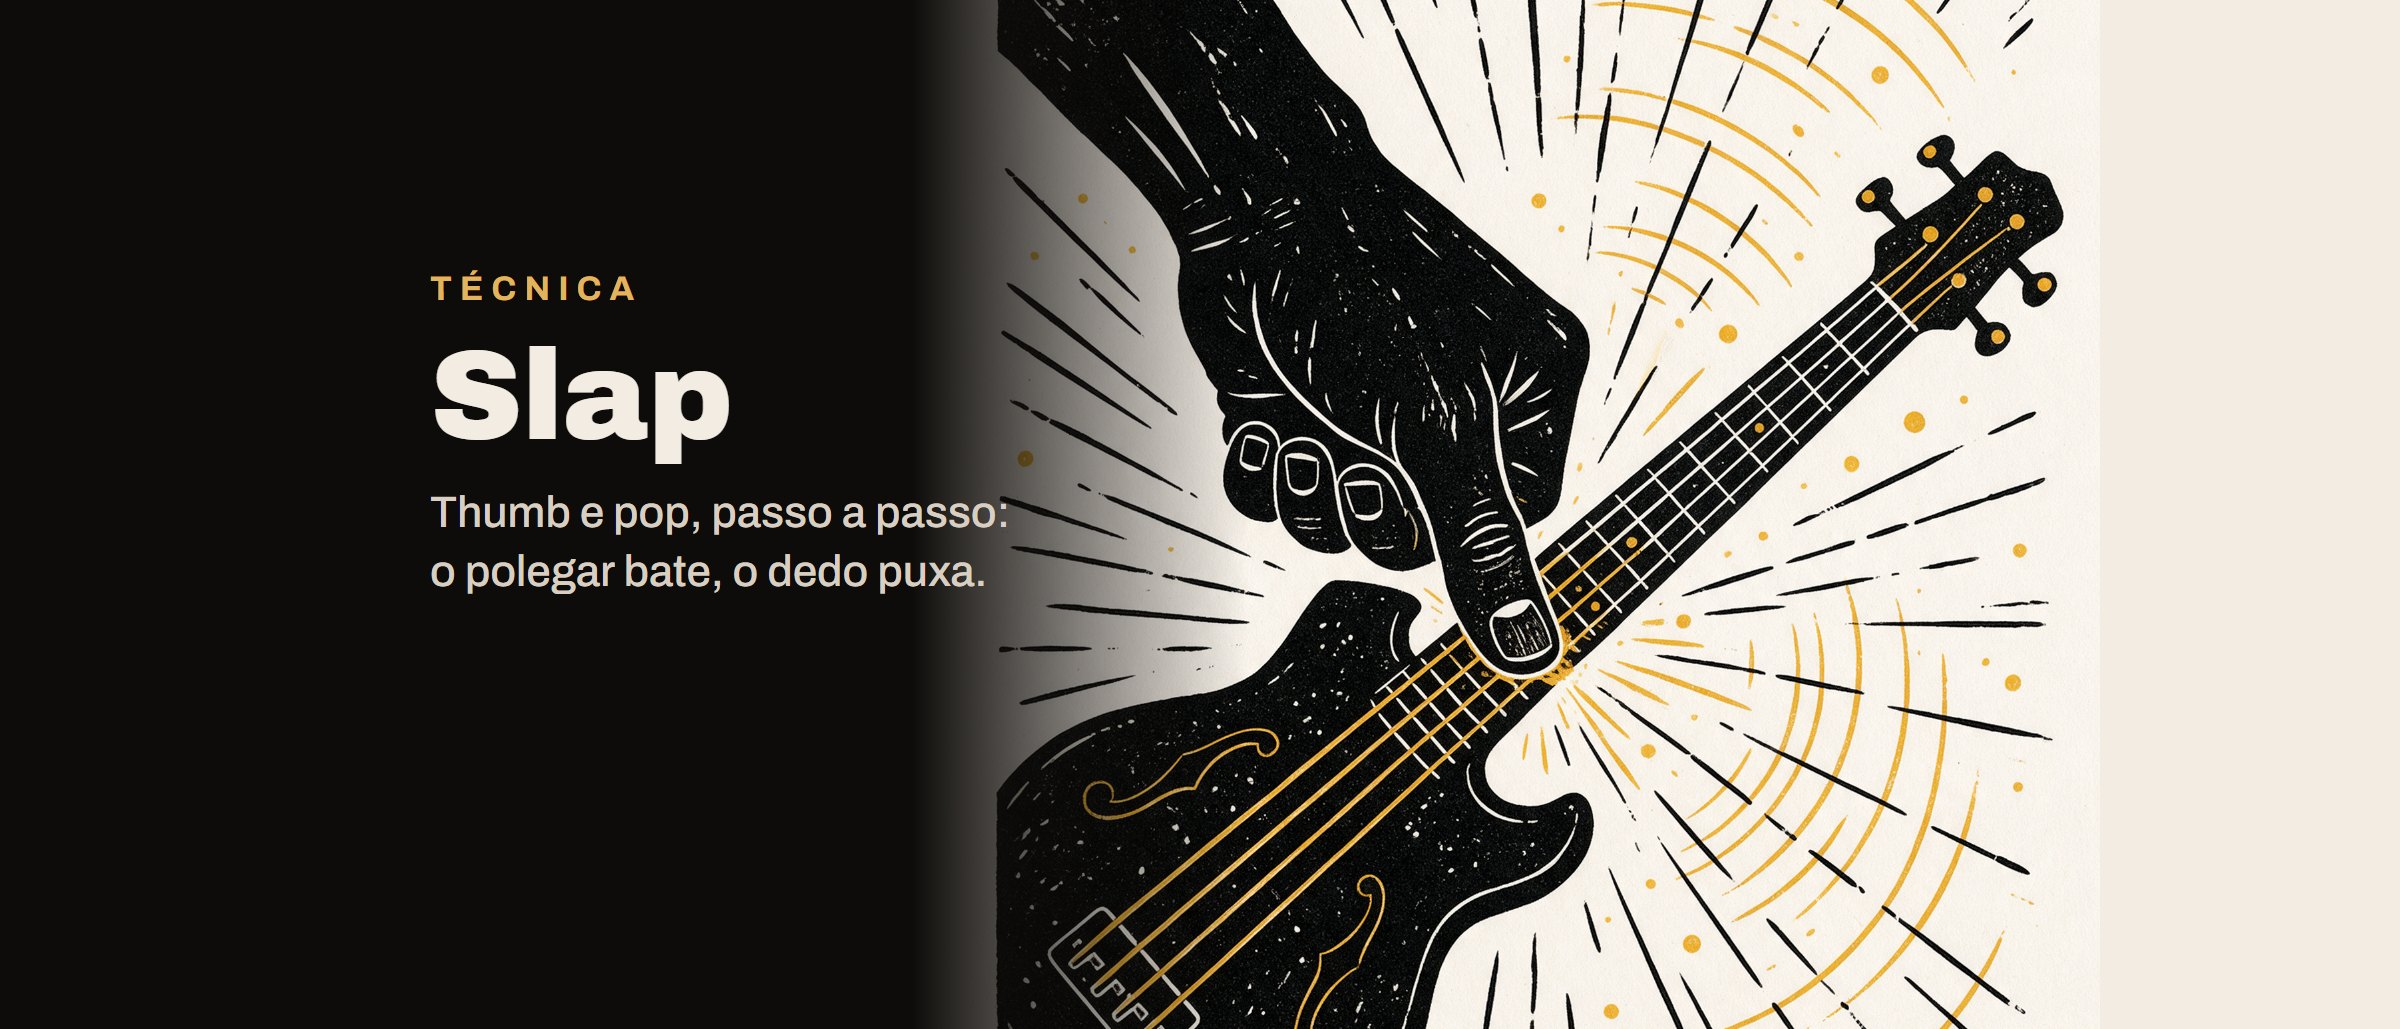
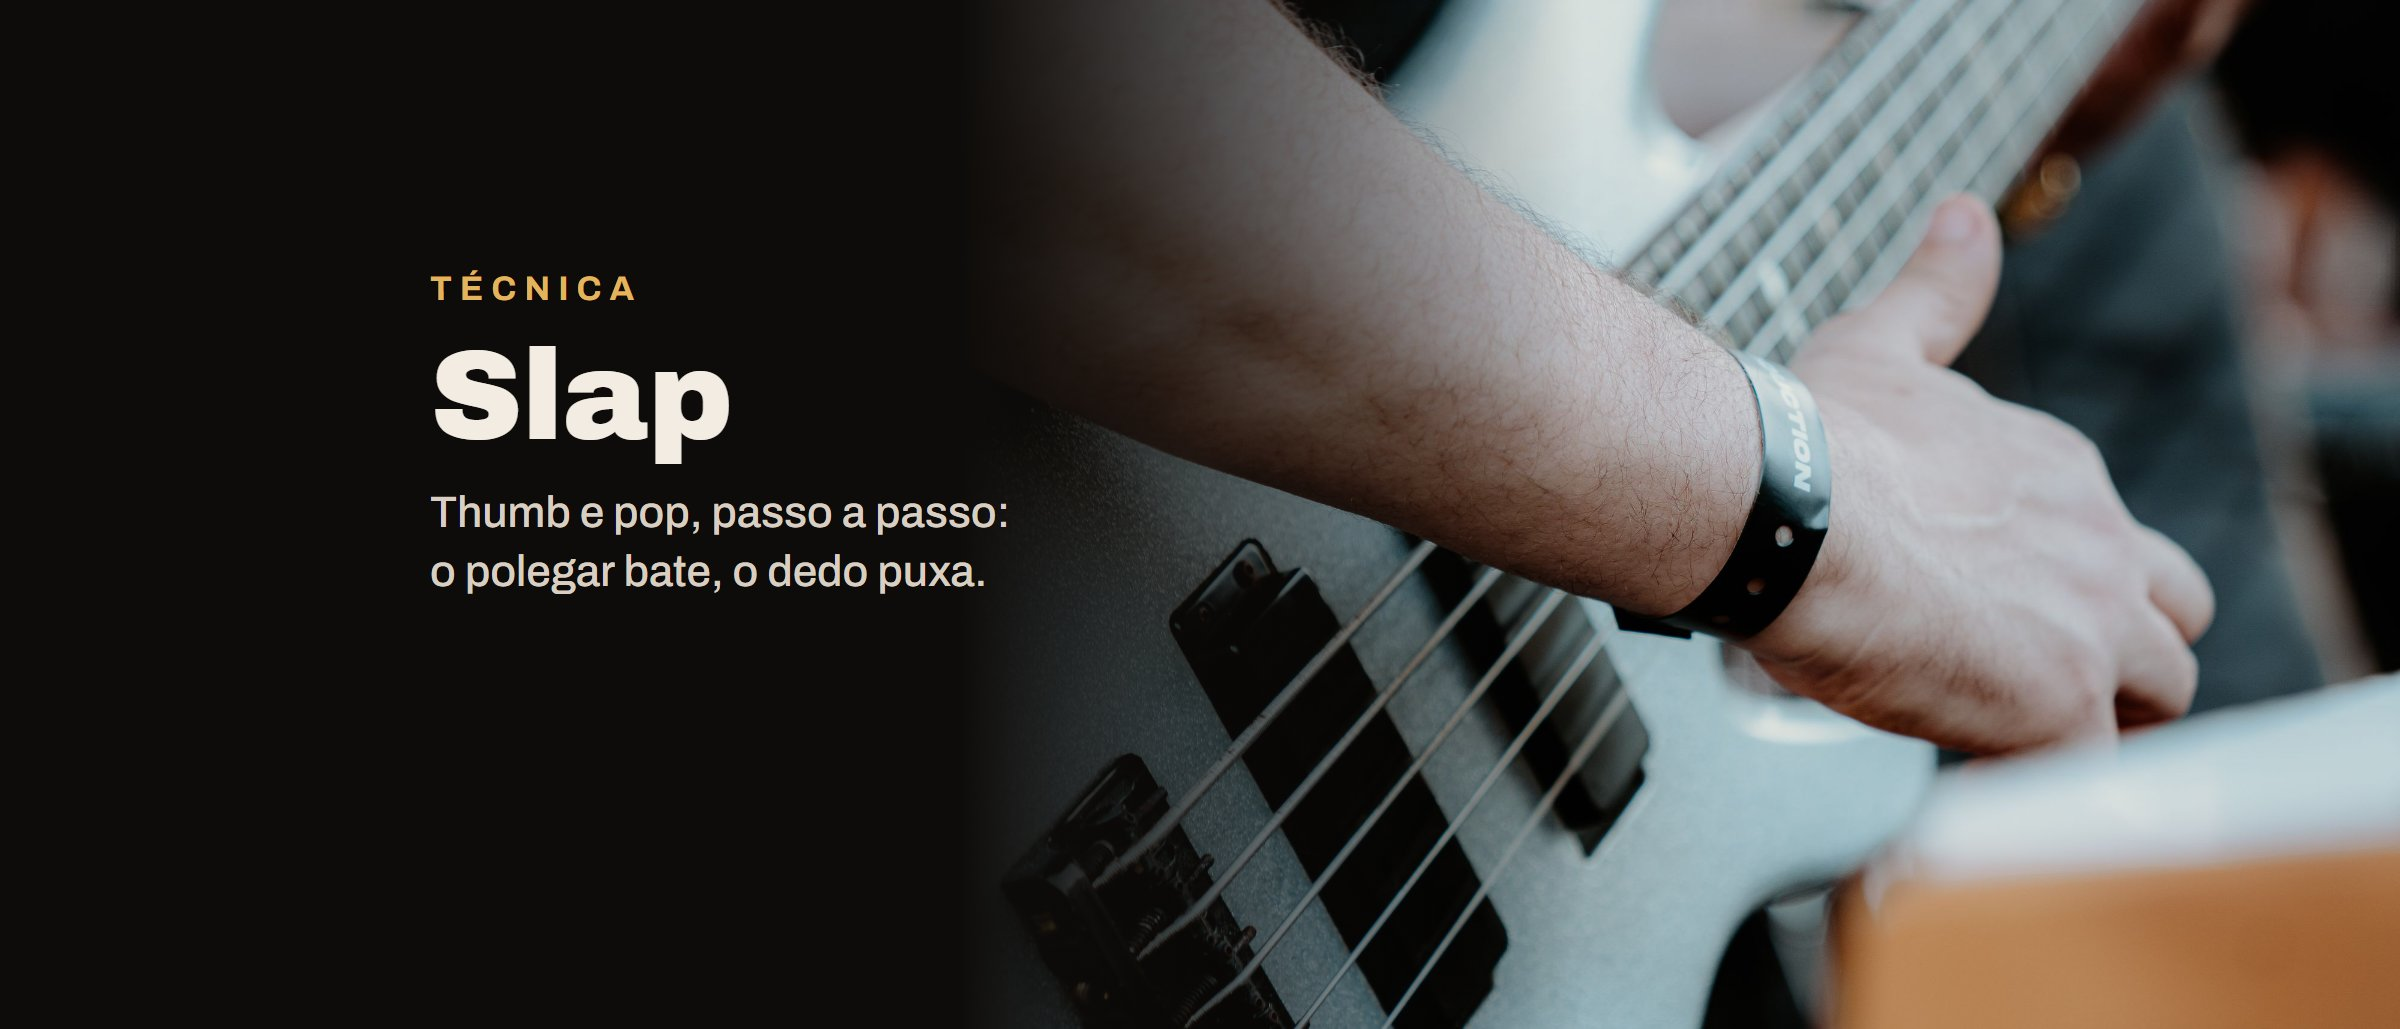
Blog: capa do Slap com foto real

diff --git a/blog/slap-para-iniciantes/index.html b/blog/slap-para-iniciantes/index.html
@@ -9,7 +9,7 @@
 <meta property="og:type" content="website"><meta property="og:title" content="Slap para iniciantes: thumb e pop, passo a passo · Ponto Grave"><meta property="og:description" content="O slap é percussão: o polegar bate, o dedo puxa. Como posicionar a mão, os dois movimentos básicos, o primeiro groove de oitavas em tablatura e os erros mais comuns.">
 <meta name="p:domain_verify" content="52e3d19f7f7dd872ad8d0d6c3d9c54eb"/>
 <meta name="facebook-domain-verification" content="0gfs4mmpw6w1qt8sbcynrootcdd90w" />
-<meta property="og:image" content="https://pontograve.com.br/assets/img/blog-slap.jpg?v=214faba8"><meta property="og:url" content="https://pontograve.com.br/blog/slap-para-iniciantes/"><meta name="twitter:card" content="summary_large_image">
+<meta property="og:image" content="https://pontograve.com.br/assets/img/blog-slap.jpg?v=c7c19f81"><meta property="og:url" content="https://pontograve.com.br/blog/slap-para-iniciantes/"><meta name="twitter:card" content="summary_large_image">
 <meta name="theme-color" content="#0E0C0A">
 <link rel="icon" href="/assets/icones/icon.svg" type="image/svg+xml"><link rel="apple-touch-icon" href="/assets/icones/icon-180.png">
 <link rel="preconnect" href="https://fonts.googleapis.com"><link rel="preconnect" href="https://fonts.gstatic.com" crossorigin>
@@ -30,7 +30,7 @@ fbq('track', 'PageView');
 var pgC=null;try{pgC=localStorage.getItem('pg-cookies')}catch(e){}
 gtag('consent','default',{analytics_storage:pgC==='sim'?'granted':'denied',ad_storage:'denied',ad_user_data:'denied',ad_personalization:'denied'});
 gtag('js',new Date());gtag('config','G-DQKNDTQTC2');</script>
-<script type="application/ld+json">{"@context":"https://schema.org","@type":"BlogPosting","headline":"Slap para iniciantes: thumb e pop, passo a passo","description":"O slap é percussão: o polegar bate, o dedo puxa. Como posicionar a mão, os dois movimentos básicos, o primeiro groove de oitavas em tablatura e os erros mais comuns.","datePublished":"2026-10-13","image":"https://pontograve.com.br/assets/img/blog-slap.jpg?v=214faba8","author":{"@type":"Organization","name":"Ponto Grave"},"publisher":{"@type":"Organization","name":"Ponto Grave"}}</script>
+<script type="application/ld+json">{"@context":"https://schema.org","@type":"BlogPosting","headline":"Slap para iniciantes: thumb e pop, passo a passo","description":"O slap é percussão: o polegar bate, o dedo puxa. Como posicionar a mão, os dois movimentos básicos, o primeiro groove de oitavas em tablatura e os erros mais comuns.","datePublished":"2026-10-13","image":"https://pontograve.com.br/assets/img/blog-slap.jpg?v=c7c19f81","author":{"@type":"Organization","name":"Ponto Grave"},"publisher":{"@type":"Organization","name":"Ponto Grave"}}</script>
 </head>
 <body class="tema-claro">
 <div class="brilho-cursor" aria-hidden="true"></div>
@@ -48,7 +48,7 @@ gtag('js',new Date());gtag('config','G-DQKNDTQTC2');</script>
 <div class="barra-leitura" aria-hidden="true"></div>
 <section class="artigo-topo"><div class="wrap"><a href="/blog/tema/tecnica/" class="rot" style="text-decoration:none">← Técnica</a><h1>Slap para iniciantes: thumb e pop, passo a passo</h1>
   <p class="sub">O slap é percussão: o polegar bate, o dedo puxa. Como posicionar a mão, os dois movimentos básicos, o primeiro groove de oitavas em tablatura e os erros mais comuns.</p><p style="color:var(--cinza);font-size:14px">13 de outubro de 2026 · 2 min de leitura</p></div></section>
-<div class="wrap"><div class="artigo-capa revelar"><img src="/assets/img/blog-slap.jpg?v=214faba8" alt=""></div><article class="prosa"><p>O <strong>slap</strong> transforma o baixo em instrumento de percussão. Ficou famoso com <strong>Larry Graham</strong>, no fim dos anos 1960: sem baterista na banda em que tocava com a mãe, ele começou a &quot;bater&quot; nas cordas para marcar o ritmo. Hoje está no funk, no gospel, no pop e no rock.</p>
+<div class="wrap"><div class="artigo-capa revelar"><img src="/assets/img/blog-slap.jpg?v=c7c19f81" alt=""></div><article class="prosa"><p>O <strong>slap</strong> transforma o baixo em instrumento de percussão. Ficou famoso com <strong>Larry Graham</strong>, no fim dos anos 1960: sem baterista na banda em que tocava com a mãe, ele começou a &quot;bater&quot; nas cordas para marcar o ritmo. Hoje está no funk, no gospel, no pop e no rock.</p>
 <h2>Os dois movimentos</h2>
 <h3>Thumb (T): o polegar bate</h3>
 <ul>

diff --git a/blog/tema/tecnica/index.html b/blog/tema/tecnica/index.html
@@ -52,7 +52,7 @@ gtag('js',new Date());gtag('config','G-DQKNDTQTC2');</script>
   <div class="txt"><span class="rot">Técnica</span><h3>Ghost notes no baixo: o tempero que faz o groove balançar</h3><p>&quot;Toco as notas certas, mas não balança.&quot; Muitas vezes falta o que não se ouve direito, as notas abafadas entre as notas. Como tocar, onde colocar e um groove para treinar hoje.</p><span class="meta">21 de outubro de 2026 · 2 min de leitura</span></div></a><a class="post-card revelar" style="--atraso:0.1s" href="/blog/walking-bass-para-iniciantes/">
   <div class="img"><img src="/assets/img/blog-walking.jpg?v=8f8ca8d8" alt="" loading="lazy"></div>
   <div class="txt"><span class="rot">Técnica</span><h3>Walking bass para iniciantes: a linha que caminha em 4 passos</h3><p>Quatro notas por compasso, tônica no tempo 1 e uma nota de aproximação no tempo 4. Com tablatura de um blues em Dó e um exercício para a sua linha começar a andar.</p><span class="meta">21 de outubro de 2026 · 2 min de leitura</span></div></a><a class="post-card revelar" style="--atraso:0.2s" href="/blog/slap-para-iniciantes/">
-  <div class="img"><img src="/assets/img/blog-slap.jpg?v=214faba8" alt="" loading="lazy"></div>
+  <div class="img"><img src="/assets/img/blog-slap.jpg?v=c7c19f81" alt="" loading="lazy"></div>
   <div class="txt"><span class="rot">Técnica</span><h3>Slap para iniciantes: thumb e pop, passo a passo</h3><p>O slap é percussão: o polegar bate, o dedo puxa. Como posicionar a mão, os dois movimentos básicos, o primeiro groove de oitavas em tablatura e os erros mais comuns.</p><span class="meta">13 de outubro de 2026 · 2 min de leitura</span></div></a><a class="post-card revelar" style="--atraso:0.30000000000000004s" href="/blog/so-toco-a-tonica/">
   <div class="img"><img src="/assets/img/blog-tonica.jpg?v=ae58939c" alt="" loading="lazy"></div>
   <div class="txt"><span class="rot">Técnica</span><h3>&quot;Só consigo tocar a tônica&quot;: como dar vida à sua linha de baixo</h3><p>A tônica é segura, por isso a mão volta sempre para ela. A saída é simples: tônica no tempo 1, pentatônica no resto. Com tablatura e exercício para hoje.</p><span class="meta">8 de outubro de 2026 · 2 min de leitura</span></div></a></div></div></section>

diff --git a/blog/index.html b/blog/index.html
@@ -88,7 +88,7 @@ gtag('js',new Date());gtag('config','G-DQKNDTQTC2');</script>
   <div class="txt"><span class="rot">Escalas</span><h3>Escala blues no baixo: a pentatônica com uma nota a mais</h3><p>A escala blues é a pentatônica menor com a blue note. Onde ela fica no braço, uma frase em tablatura e a forma do blues de 12 compassos para tocar junto.</p><span class="meta">13 de outubro de 2026 · 2 min de leitura</span></div></a><a class="post-card revelar" style="--atraso:1.9000000000000001s" href="/blog/fretless-vale-a-pena/">
   <div class="img"><img src="/assets/img/blog-fretless.jpg?v=7fa96c5e" alt="" loading="lazy"></div>
   <div class="txt"><span class="rot">Equipamento</span><h3>Fretless: vale a pena tocar baixo sem trastes?</h3><p>O baixo sem trastes tem o som que canta, mas cobra afinação no ouvido. Como ele soa, quem o tornou famoso, as dificuldades reais e como começar sem sofrer.</p><span class="meta">13 de outubro de 2026 · 2 min de leitura</span></div></a><a class="post-card revelar" style="--atraso:2s" href="/blog/slap-para-iniciantes/">
-  <div class="img"><img src="/assets/img/blog-slap.jpg?v=214faba8" alt="" loading="lazy"></div>
+  <div class="img"><img src="/assets/img/blog-slap.jpg?v=c7c19f81" alt="" loading="lazy"></div>
   <div class="txt"><span class="rot">Técnica</span><h3>Slap para iniciantes: thumb e pop, passo a passo</h3><p>O slap é percussão: o polegar bate, o dedo puxa. Como posicionar a mão, os dois movimentos básicos, o primeiro groove de oitavas em tablatura e os erros mais comuns.</p><span class="meta">13 de outubro de 2026 · 2 min de leitura</span></div></a><a class="post-card revelar" style="--atraso:2.1s" href="/blog/precision-ou-jazz-bass/">
   <div class="img"><img src="/assets/img/blog-precision-jazz.jpg?v=a04373c2" alt="" loading="lazy"></div>
   <div class="txt"><span class="rot">Equipamento</span><h3>Precision ou Jazz Bass? As diferenças que você ouve e sente</h3><p>Os dois baixos mais copiados da história. Captadores, braço, controles e som: o que muda de um para o outro e qual combina com o seu estilo.</p><span class="meta">12 de outubro de 2026 · 2 min de leitura</span></div></a><a class="post-card revelar" style="--atraso:2.2s" href="/blog/so-toco-a-tonica/">

diff --git a/blog/walking-bass-para-iniciantes/index.html b/blog/walking-bass-para-iniciantes/index.html
@@ -92,7 +92,7 @@ E|------------------|---------------|
 <section class="secao"><div class="wrap"><div class="cab-secao"><div><span class="rot">Continue lendo</span><h2>Mais do <span class="o">blog</span></h2></div></div><div class="posts"><a class="post-card revelar" style="--atraso:0s" href="/blog/ghost-notes-no-baixo/">
   <div class="img"><img src="/assets/img/blog-ghost-notes.jpg?v=8fbda1bd" alt="" loading="lazy"></div>
   <div class="txt"><span class="rot">Técnica</span><h3>Ghost notes no baixo: o tempero que faz o groove balançar</h3><p>&quot;Toco as notas certas, mas não balança.&quot; Muitas vezes falta o que não se ouve direito, as notas abafadas entre as notas. Como tocar, onde colocar e um groove para treinar hoje.</p><span class="meta">21 de outubro de 2026 · 2 min de leitura</span></div></a><a class="post-card revelar" style="--atraso:0.1s" href="/blog/slap-para-iniciantes/">
-  <div class="img"><img src="/assets/img/blog-slap.jpg?v=214faba8" alt="" loading="lazy"></div>
+  <div class="img"><img src="/assets/img/blog-slap.jpg?v=c7c19f81" alt="" loading="lazy"></div>
   <div class="txt"><span class="rot">Técnica</span><h3>Slap para iniciantes: thumb e pop, passo a passo</h3><p>O slap é percussão: o polegar bate, o dedo puxa. Como posicionar a mão, os dois movimentos básicos, o primeiro groove de oitavas em tablatura e os erros mais comuns.</p><span class="meta">13 de outubro de 2026 · 2 min de leitura</span></div></a><a class="post-card revelar" style="--atraso:0.2s" href="/blog/so-toco-a-tonica/">
   <div class="img"><img src="/assets/img/blog-tonica.jpg?v=ae58939c" alt="" loading="lazy"></div>
   <div class="txt"><span class="rot">Técnica</span><h3>&quot;Só consigo tocar a tônica&quot;: como dar vida à sua linha de baixo</h3><p>A tônica é segura, por isso a mão volta sempre para ela. A saída é simples: tônica no tempo 1, pentatônica no resto. Com tablatura e exercício para hoje.</p><span class="meta">8 de outubro de 2026 · 2 min de leitura</span></div></a></div></div></section>

diff --git a/blog/ghost-notes-no-baixo/index.html b/blog/ghost-notes-no-baixo/index.html
@@ -88,7 +88,7 @@ E|-0-x-x---0-x---------------x-3---|
 <section class="secao"><div class="wrap"><div class="cab-secao"><div><span class="rot">Continue lendo</span><h2>Mais do <span class="o">blog</span></h2></div></div><div class="posts"><a class="post-card revelar" style="--atraso:0s" href="/blog/walking-bass-para-iniciantes/">
   <div class="img"><img src="/assets/img/blog-walking.jpg?v=8f8ca8d8" alt="" loading="lazy"></div>
   <div class="txt"><span class="rot">Técnica</span><h3>Walking bass para iniciantes: a linha que caminha em 4 passos</h3><p>Quatro notas por compasso, tônica no tempo 1 e uma nota de aproximação no tempo 4. Com tablatura de um blues em Dó e um exercício para a sua linha começar a andar.</p><span class="meta">21 de outubro de 2026 · 2 min de leitura</span></div></a><a class="post-card revelar" style="--atraso:0.1s" href="/blog/slap-para-iniciantes/">
-  <div class="img"><img src="/assets/img/blog-slap.jpg?v=214faba8" alt="" loading="lazy"></div>
+  <div class="img"><img src="/assets/img/blog-slap.jpg?v=c7c19f81" alt="" loading="lazy"></div>
   <div class="txt"><span class="rot">Técnica</span><h3>Slap para iniciantes: thumb e pop, passo a passo</h3><p>O slap é percussão: o polegar bate, o dedo puxa. Como posicionar a mão, os dois movimentos básicos, o primeiro groove de oitavas em tablatura e os erros mais comuns.</p><span class="meta">13 de outubro de 2026 · 2 min de leitura</span></div></a><a class="post-card revelar" style="--atraso:0.2s" href="/blog/so-toco-a-tonica/">
   <div class="img"><img src="/assets/img/blog-tonica.jpg?v=ae58939c" alt="" loading="lazy"></div>
   <div class="txt"><span class="rot">Técnica</span><h3>&quot;Só consigo tocar a tônica&quot;: como dar vida à sua linha de baixo</h3><p>A tônica é segura, por isso a mão volta sempre para ela. A saída é simples: tônica no tempo 1, pentatônica no resto. Com tablatura e exercício para hoje.</p><span class="meta">8 de outubro de 2026 · 2 min de leitura</span></div></a></div></div></section>

diff --git a/blog/so-toco-a-tonica/index.html b/blog/so-toco-a-tonica/index.html
@@ -93,7 +93,7 @@ E|-5-----------------------|
   <div class="txt"><span class="rot">Técnica</span><h3>Ghost notes no baixo: o tempero que faz o groove balançar</h3><p>&quot;Toco as notas certas, mas não balança.&quot; Muitas vezes falta o que não se ouve direito, as notas abafadas entre as notas. Como tocar, onde colocar e um groove para treinar hoje.</p><span class="meta">21 de outubro de 2026 · 2 min de leitura</span></div></a><a class="post-card revelar" style="--atraso:0.1s" href="/blog/walking-bass-para-iniciantes/">
   <div class="img"><img src="/assets/img/blog-walking.jpg?v=8f8ca8d8" alt="" loading="lazy"></div>
   <div class="txt"><span class="rot">Técnica</span><h3>Walking bass para iniciantes: a linha que caminha em 4 passos</h3><p>Quatro notas por compasso, tônica no tempo 1 e uma nota de aproximação no tempo 4. Com tablatura de um blues em Dó e um exercício para a sua linha começar a andar.</p><span class="meta">21 de outubro de 2026 · 2 min de leitura</span></div></a><a class="post-card revelar" style="--atraso:0.2s" href="/blog/slap-para-iniciantes/">
-  <div class="img"><img src="/assets/img/blog-slap.jpg?v=214faba8" alt="" loading="lazy"></div>
+  <div class="img"><img src="/assets/img/blog-slap.jpg?v=c7c19f81" alt="" loading="lazy"></div>
   <div class="txt"><span class="rot">Técnica</span><h3>Slap para iniciantes: thumb e pop, passo a passo</h3><p>O slap é percussão: o polegar bate, o dedo puxa. Como posicionar a mão, os dois movimentos básicos, o primeiro groove de oitavas em tablatura e os erros mais comuns.</p><span class="meta">13 de outubro de 2026 · 2 min de leitura</span></div></a></div></div></section>
 </main>
 <footer class="rodape"><div class="wrap">
